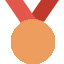
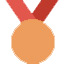
Home done - responsive

Changed region(s): [[0.5938, 0.0, 0.9375, 1.0], [0.0625, 0.0, 0.4375, 1.0], [0.3438, 0.0, 0.6562, 0.2188]]

diff --git a/Home/home.html b/Home/home.html
@@ -6,6 +6,8 @@
     <link rel="stylesheet" type="text/css" href="../Fonts/style.css">
     <meta name="viewport" content="width=device-width">
     <meta charset="utf-8">
+
+
 </head>
 <body>
 
@@ -52,8 +54,9 @@
 			
 		</nav>
 	</header>
-
 	<div class="container">
+
+		<span class="icon-book"></span>
 		<aside class="left">
 			<h1>Presentados</h1>
 
@@ -72,9 +75,9 @@
 
 		</aside>
 	
-		<main>
+		<main class="contenido">
 			<!-- Implementar con foreach y base de datos-->
-			<h1>Nuevos proyectos</h1>
+			<h1 class="tituloNav">Nuevos proyectos</h1>
 			<div class="publicacion">
 				<div class="categoria">
 					<span class="icon-price-tag IA"></span>
@@ -89,23 +92,26 @@
 
 				<div class="medallas">
 					<div class="bronce">
-						<img src="../Images/bronce.jpg" alt="Medallas de bronce">
+						<img src="../Images/bronce.png" alt="Medallas de bronce">
 						<span class="cantidadBronce">345</span>
 					</div>
 
 					<div class="plata">
-						<img src="../Images/plata.jpg" alt="Medallas de plata">
+						<img src="../Images/plata.png" alt="Medallas de plata">
 						<span class="cantidadPlata">2</span>
 					</div>
 
 					<div class="oro">
-						<img src="../Images/oro.jpg" alt="Medallas de oro">
+						<img src="../Images/oro.png" alt="Medallas de oro">
 						<span class="cantidadOro">15.5m</span>
 					</div>
 
 				</div>
 			
-
+				<div class="comentarios">
+					<span class="icon-bubble"></span>
+					<span class="numeroComments">449k</span>	
+				</div>
 
 				<div class="divEndPublic"></div>
 
@@ -125,20 +131,25 @@
 
 				<div class="medallas">
 					<div class="bronce">
-						<img src="../Images/bronce.jpg" alt="Medallas de bronce">
+						<img src="../Images/bronce.png" alt="Medallas de bronce">
 						<span class="cantidadBronce">12</span>
 					</div>
 
 					<div class="plata">
-						<img src="../Images/plata.jpg" alt="Medallas de plata">
+						<img src="../Images/plata.png" alt="Medallas de plata">
 						<span class="cantidadPlata">31</span>
 					</div>
 
 					<div class="oro">
-						<img src="../Images/oro.jpg" alt="Medallas de oro">
+						<img src="../Images/oro.png" alt="Medallas de oro">
 						<span class="cantidadOro">222</span>
 					</div>
 
+				</div>
+
+				<div class="comentarios">
+					<span class="icon-bubble"></span>
+					<span class="numeroComments">55</span>	
 				</div>
 
 				<div class="divEndPublic"></div>
@@ -158,20 +169,25 @@
 
 				<div class="medallas">
 					<div class="bronce">
-						<img src="../Images/bronce.jpg" alt="Medallas de bronce">
+						<img src="../Images/bronce.png" alt="Medallas de bronce">
 						<span class="cantidadBronce">21</span>
 					</div>
 
 					<div class="plata">
-						<img src="../Images/plata.jpg" alt="Medallas de plata">
+						<img src="../Images/plata.png" alt="Medallas de plata">
 						<span class="cantidadPlata">14</span>
 					</div>
 
 					<div class="oro">
-						<img src="../Images/oro.jpg" alt="Medallas de oro">
+						<img src="../Images/oro.png" alt="Medallas de oro">
 						<span class="cantidadOro">551k</span>
 					</div>
 
+				</div>
+
+				<div class="comentarios">
+					<span class="icon-bubble"></span>
+					<span class="numeroComments">90</span>	
 				</div>
 
 				<div class="divEndPublic"></div>
@@ -208,6 +224,19 @@
 		</aside>
 
 	</div>
+
+	<script src="https://ajax.googleapis.com/ajax/libs/jquery/3.1.0/jquery.min.js"></script>
+
+
+	<script type="text/javascript">
+		$(document).ready(function() {
+   			 $(".icon-book").click(function(){
+   			 	$(".icon-book").toggleClass("abrir2");
+   			 	$(".left").toggleClass("abrir");
+   			 });
+		});
+
+	</script>
 
 </body>
 </html>

diff --git a/Home/styles.css b/Home/styles.css
@@ -13,10 +13,10 @@
 *{
 	padding:0;
 	margin:0;
-	box-sizing: border-box;
 }
 body{
 	font-family: 'Montserrat',sans-serif;
+	background-color: #f5f5f5;
 }
 a{
 	text-decoration: none;
@@ -25,7 +25,17 @@ a{
 
 @media screen and (max-width: 1070px){
 	.medallas{
-		flex-direction: column;
+		display: grid !important;
+		align-items: center;
+		justify-content: center;
+		grid-template-columns: 1fr 1fr;
+	}
+	.bronce,.plata{
+		grid-column: span 1;
+	}
+	.oro{
+		grid-column: span 2;
+		justify-self:center; 
 	}
 }
 
@@ -36,9 +46,19 @@ a{
 	#phoneIcons{
 		display: inline-block !important;
 	}
+	.medallas, .medallas img{
+		height:3em !important;
+		width: 3em !important;
+	}
+	.info{
+		margin-bottom: 1em;
+	}
+	.tituloNav{
+		font-size: 1.3em !important;
+	}
 
 }
-@media screen and (max-width: 400px){
+@media screen and (max-width: 450px){
 	#username, #name{
 		font-size: .5em !important;
 		margin-left: 1em;
@@ -46,9 +66,7 @@ a{
 	#mainPhoto{
 		width: 4em;
 	}
-	#leftNavItems{
-		grid-template-columns:25% 10% 60% !important;
-	}
+
 	#mainPhoto a img{
 		height:100% !important;
 		width:100% !important;
@@ -57,9 +75,44 @@ a{
 		height: 2em !important;
 		width:2em !important;
 	}
+	.container{
+		display: block !important;
+		padding-left:2.5em;
+		padding-right: 3em;
+		z-index: 1;
+		position: relative;
+	}
 	#phoneIcons{
 		font-size: 1em !important;
 	}
+	.right{
+		display: none !important;
+	}
+	.left{
+		position: absolute;
+		left: -100%;
+		z-index: 2;
+		transition: .5s;
+		width: 70% !important;
+	}
+	.icon-book{
+		display: inline-block !important;
+	}
+	.tituloNav{
+		text-align: center !important;
+	}
+}
+.icon-book{
+	font-size: 1.5em;
+	position: absolute;
+	left: .5em;
+	top:.5em;
+	color: #ff8400;
+	background-color: #5c3000;
+	padding:.4em;
+	border-radius: 100%;
+	display: none;
+	transition:.5s;
 }
 
 #phoneIcons{
@@ -244,6 +297,7 @@ nav{
 .container{
 	display:grid;
 	grid-template-columns: 1fr 2fr 1fr;
+	position: relative;
 }
 
 .left, .right{
@@ -287,11 +341,13 @@ nav{
 	font-size: .8em;
 	align-items: center;
 	flex-direction: column;
+	text-align: center;
 }
 
 .dedicacion{
 	font-size: .9em;
 	color:#e96e00;
+	text-align: center;
 }
 
 .publicacion{
@@ -353,9 +409,26 @@ nav{
 	opacity:1;
 }
 
-h1{
+main .tituloNav{
 	font-family: 'Montserrat Light', sans-serif;
 	margin-bottom: 2em;
-	margin: 1em auto;
 	font-size:2em;
+	padding-top: 1em;
+	text-align: right;
+}
+
+.comentarios{
+	grid-column: span 3;
+	font-family:'Montserrat', sans-serif;
+	opacity: .7;	
+}
+.comentarios .icon-bubble{
+	color:#ff5900;
+}
+
+.abrir{
+	margin-left:100%;
+}
+.abrir2{
+	left:71%;
 }

diff --git a/Fonts/demo.html b/Fonts/demo.html
@@ -9,7 +9,7 @@
     <link rel="stylesheet" href="style.css"></head>
 <body>
     <div class="bgc1 clearfix">
-        <h1 class="mhmm mvm"><span class="fgc1">Font Name:</span> icomoon <small class="fgc1">(Glyphs:&nbsp;4)</small></h1>
+        <h1 class="mhmm mvm"><span class="fgc1">Font Name:</span> icomoon <small class="fgc1">(Glyphs:&nbsp;6)</small></h1>
     </div>
     <div class="clearfix mhl ptl">
         <h1 class="mvm mtn fgc1">Grid Size: 32</h1>
@@ -49,6 +49,20 @@
         <h1 class="mvm mtn fgc1">Grid Size: 16</h1>
         <div class="glyph fs3">
             <div class="clearfix bshadow0 pbs">
+                <span class="icon-book"></span>
+                <span class="mls"> icon-book</span>
+            </div>
+            <fieldset class="fs0 size1of1 clearfix hidden-false">
+                <input type="text" readonly value="e91f" class="unit size1of2" />
+                <input type="text" maxlength="1" readonly value="&#xe91f;" class="unitRight size1of2 talign-right" />
+            </fieldset>
+            <div class="fs0 bshadow0 clearfix hidden-true">
+                <span class="unit pvs fgc1">liga: </span>
+                <input type="text" readonly value="book, read" class="liga unitRight" />
+            </div>
+        </div>
+        <div class="glyph fs3">
+            <div class="clearfix bshadow0 pbs">
                 <span class="icon-price-tag"></span>
                 <span class="mls"> icon-price-tag</span>
             </div>
@@ -59,6 +73,20 @@
             <div class="fs0 bshadow0 clearfix hidden-true">
                 <span class="unit pvs fgc1">liga: </span>
                 <input type="text" readonly value="price-tag" class="liga unitRight" />
+            </div>
+        </div>
+        <div class="glyph fs3">
+            <div class="clearfix bshadow0 pbs">
+                <span class="icon-bubble"></span>
+                <span class="mls"> icon-bubble</span>
+            </div>
+            <fieldset class="fs0 size1of1 clearfix hidden-false">
+                <input type="text" readonly value="e96b" class="unit size1of2" />
+                <input type="text" maxlength="1" readonly value="&#xe96b;" class="unitRight size1of2 talign-right" />
+            </fieldset>
+            <div class="fs0 bshadow0 clearfix hidden-true">
+                <span class="unit pvs fgc1">liga: </span>
+                <input type="text" readonly value="bubble, comment" class="liga unitRight" />
             </div>
         </div>
         <div class="glyph fs3">

diff --git a/Fonts/style.css b/Fonts/style.css
@@ -1,10 +1,10 @@
 @font-face {
   font-family: 'icomoon';
-  src:  url('fonts/icomoon.eot?9lt4e8');
-  src:  url('fonts/icomoon.eot?9lt4e8#iefix') format('embedded-opentype'),
-    url('fonts/icomoon.ttf?9lt4e8') format('truetype'),
-    url('fonts/icomoon.woff?9lt4e8') format('woff'),
-    url('fonts/icomoon.svg?9lt4e8#icomoon') format('svg');
+  src:  url('fonts/icomoon.eot?70yw94');
+  src:  url('fonts/icomoon.eot?70yw94#iefix') format('embedded-opentype'),
+    url('fonts/icomoon.ttf?70yw94') format('truetype'),
+    url('fonts/icomoon.woff?70yw94') format('woff'),
+    url('fonts/icomoon.svg?70yw94#icomoon') format('svg');
   font-weight: normal;
   font-style: normal;
   font-display: block;
@@ -31,8 +31,14 @@
 .icon-log-in:before {
   content: "\1f310";
 }
+.icon-book:before {
+  content: "\e91f";
+}
 .icon-price-tag:before {
   content: "\e935";
+}
+.icon-bubble:before {
+  content: "\e96b";
 }
 .icon-plus:before {
   content: "\ea0a";
